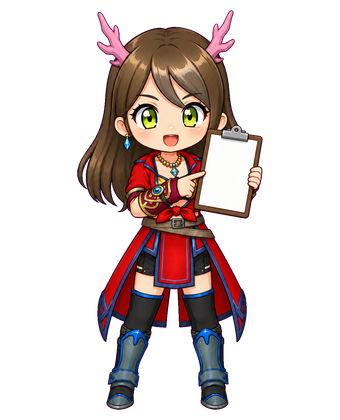
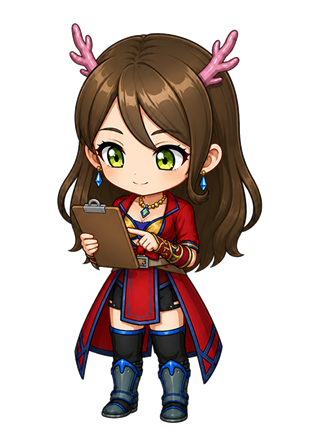
カウンター操作・患者初期設定・赤エストを更新

diff --git a/prototype_unified_triage.app.js b/prototype_unified_triage.app.js
@@ -705,6 +705,7 @@ const GAS_TOTAL_SAFE_BYTES = 450000;
 const GAS_NEAR_LIMIT_BYTES = 405000;
 const MANUAL_TIMER_TITLE_STORAGE_KEY = 'patient-triage-manual-timer-title';
 const MANUAL_TALLY_TITLE_STORAGE_KEY = 'patient-triage-manual-tally-title';
+const TIMER_DOCK_POSITION_STORAGE_KEY = 'patient-triage-timer-dock-position';
 const SUSPENDED_RUNNING_STORAGE_KEY = 'patient-triage-suspended-running';
 const COACH_CAST_STORAGE_KEY = 'patient-triage-coach-cast-enabled';
 const COACH_CAST_OPTIONS = [
@@ -718,7 +719,7 @@ const COACH_CAST_OPTIONS = [
 ];
 const COACH_MENTOR_ART_OPTIONS = [
   { id: 'classic', label: '既存エスト', preview: 'blue_white_girl_01_neutral.png' },
-  { id: 'variant', label: '色違いエスト', preview: 'est_variant_01_neutral.png' }
+  { id: 'variant', label: '色違いエスト', preview: 'est_variant_01_neutral.png?v=20260827-head-v3' }
 ];
 const DEFAULT_COACH_CAST = Object.freeze({
   ...COACH_CAST_OPTIONS.reduce((acc, item) => {
@@ -1103,6 +1104,7 @@ const lifetimeLineFor = total => {
   return String(tpl).replace(/\{total\}/g, String(total));
 };
 const PATIENT_ALERTS = [{ id: 'medHold', icon: '💊', label: '中断薬あり' }, { id: 'fasting', icon: '🍙', label: '欠食あり' }, { id: 'rehabMissing', icon: '🏃♀', label: 'リハビリ未介入' }];
+const DEFAULT_PATIENT_ALERTS = { medHold: true, fasting: true, rehabMissing: true };
 const getPatientAlerts = patient => PATIENT_ALERTS.filter(alert => patient?.alerts?.[alert.id]);
 const getPri = p => p?.priority || 'normal';
 const priMeta = id => PRIORITIES.find(p => p.id === id) || PRIORITIES.find(p => p.id === 'normal') || PRIORITIES[1];
@@ -8812,12 +8814,123 @@ function TimerQuickLauncher({
   suspended,
   onResumeSuspended
 }) {
+  const [dockPosition, setDockPosition] = React.useState(() => {
+    const saved = loadLocal(TIMER_DOCK_POSITION_STORAGE_KEY);
+    if (!Number.isFinite(saved?.y)) return null;
+    if (saved?.side === 'left' || saved?.side === 'right') return { side: saved.side, y: saved.y };
+    if (Number.isFinite(saved?.x)) {
+      return { side: saved.x < window.innerWidth / 2 ? 'left' : 'right', y: saved.y };
+    }
+    return null;
+  });
+  const dockRef = React.useRef(null);
+  const dragRef = React.useRef(null);
+  const clampDockPosition = (x, y, width, height) => ({
+    x: Math.max(8, Math.min(x, window.innerWidth - width - 8)),
+    y: Math.max(8, Math.min(y, window.innerHeight - height - 8))
+  });
+  const snapDockPosition = (position, width, height) => {
+    const clamped = clampDockPosition(position.x, position.y, width, height);
+    return {
+      side: clamped.x + width / 2 < window.innerWidth / 2 ? 'left' : 'right',
+      y: clamped.y
+    };
+  };
+  const moveDock = next => {
+    setDockPosition(next);
+    saveLocal(TIMER_DOCK_POSITION_STORAGE_KEY, next);
+  };
+  const resetDockPosition = () => {
+    setDockPosition(null);
+    saveLocal(TIMER_DOCK_POSITION_STORAGE_KEY, null);
+  };
+  const onDragStart = e => {
+    const rect = dockRef.current?.getBoundingClientRect();
+    if (!rect) return;
+    dragRef.current = {
+      pointerId: e.pointerId,
+      startX: e.clientX,
+      startY: e.clientY,
+      left: rect.left,
+      top: rect.top,
+      width: rect.width,
+      height: rect.height,
+      latest: { x: rect.left, y: rect.top }
+    };
+    e.currentTarget.setPointerCapture?.(e.pointerId);
+    e.preventDefault();
+    e.stopPropagation();
+  };
+  const onDragMove = e => {
+    const drag = dragRef.current;
+    if (!drag || drag.pointerId !== e.pointerId) return;
+    const next = clampDockPosition(
+      drag.left + e.clientX - drag.startX,
+      drag.top + e.clientY - drag.startY,
+      drag.width,
+      drag.height
+    );
+    drag.latest = next;
+    setDockPosition(next);
+    e.preventDefault();
+  };
+  const onDragEnd = e => {
+    const drag = dragRef.current;
+    if (!drag || drag.pointerId !== e.pointerId) return;
+    dragRef.current = null;
+    moveDock(snapDockPosition(drag.latest, drag.width, drag.height));
+    e.currentTarget.releasePointerCapture?.(e.pointerId);
+    e.preventDefault();
+  };
+  const onDockKeyDown = e => {
+    if (e.key === 'Home') {
+      resetDockPosition();
+      e.preventDefault();
+      return;
+    }
+    const rect = dockRef.current?.getBoundingClientRect();
+    if (!rect) return;
+    if (e.key === 'ArrowLeft' || e.key === 'ArrowRight') {
+      moveDock({ side: e.key === 'ArrowLeft' ? 'left' : 'right', y: rect.top });
+      e.preventDefault();
+      return;
+    }
+    if (e.key !== 'ArrowUp' && e.key !== 'ArrowDown') return;
+    const y = clampDockPosition(rect.left, rect.top + (e.key === 'ArrowUp' ? -12 : 12), rect.width, rect.height).y;
+    moveDock({
+      side: dockPosition?.side || (rect.left < window.innerWidth / 2 ? 'left' : 'right'),
+      y
+    });
+    e.preventDefault();
+  };
+  React.useEffect(() => {
+    const keepInViewport = () => {
+      const rect = dockRef.current?.getBoundingClientRect();
+      if (!rect) return;
+      setDockPosition(previous => {
+        if (!previous) return previous;
+        const next = {
+          side: previous.side === 'left' ? 'left' : 'right',
+          y: clampDockPosition(rect.left, previous.y, rect.width, rect.height).y
+        };
+        if (next.side === previous.side && next.y === previous.y) return previous;
+        saveLocal(TIMER_DOCK_POSITION_STORAGE_KEY, next);
+        return next;
+      });
+    };
+    window.addEventListener('resize', keepInViewport);
+    keepInViewport();
+    return () => window.removeEventListener('resize', keepInViewport);
+  }, [suspended]);
   if (running) return null;
   return React.createElement("div", {
+    ref: dockRef,
     style: {
       position: 'fixed',
-      right: 'max(12px, env(safe-area-inset-right))',
-      bottom: 'max(112px, calc(env(safe-area-inset-bottom) + 112px))',
+      left: Number.isFinite(dockPosition?.x) ? dockPosition.x : dockPosition?.side === 'left' ? 'max(8px, env(safe-area-inset-left))' : 'auto',
+      top: Number.isFinite(dockPosition?.y) ? dockPosition.y : 'auto',
+      right: Number.isFinite(dockPosition?.x) || dockPosition?.side === 'left' ? 'auto' : dockPosition?.side === 'right' ? 'max(8px, env(safe-area-inset-right))' : 'max(12px, env(safe-area-inset-right))',
+      bottom: dockPosition ? 'auto' : 'max(112px, calc(env(safe-area-inset-bottom) + 112px))',
       zIndex: 9040,
       display: 'flex',
       flexDirection: 'column',
@@ -8830,7 +8943,32 @@ function TimerQuickLauncher({
       backdropFilter: 'blur(8px)'
     },
     "aria-label": "タイマーと件数クリッカー"
-  }, suspended && React.createElement("button", {
+  }, React.createElement("div", {
+    role: "button",
+    tabIndex: 0,
+    title: "ドラッグすると左右の画面端に吸着・ダブルクリックで右下に戻す",
+    "aria-label": "タイマーと件数クリッカーを移動",
+    onPointerDown: onDragStart,
+    onPointerMove: onDragMove,
+    onPointerUp: onDragEnd,
+    onPointerCancel: onDragEnd,
+    onDoubleClick: resetDockPosition,
+    onKeyDown: onDockKeyDown,
+    style: {
+      width: 38,
+      height: 20,
+      display: 'flex',
+      alignItems: 'center',
+      justifyContent: 'center',
+      color: 'var(--text-3)',
+      fontSize: 14,
+      lineHeight: 1,
+      cursor: 'grab',
+      touchAction: 'none',
+      userSelect: 'none',
+      opacity: .68
+    }
+  }, "⠿"), suspended && React.createElement("button", {
     type: "button",
     className: "btn-ghost dock-icon",
     onClick: onResumeSuspended,
@@ -11838,7 +11976,7 @@ function PatientTriage() {
       admissionDate: isDailyMode ? '' : newPatientAdmissionDate,
       preDischargeDone: false,
       memo: '',
-      alerts: {},
+      alerts: isDailyMode ? {} : { ...DEFAULT_PATIENT_ALERTS },
       medHoldNote: '',
       problems: [],
       tasks: [],
@@ -12958,6 +13096,9 @@ function PatientTriage() {
       admissionDate: dateStrFromDate(new Date()),
       preDischargeDone: false,
       memo: pending.memo ? `(元: ${kindMeta(pending.kind).label}${pending.scheduledDate ? ' ' + pending.scheduledDate : ''}) ${pending.memo}` : '',
+      alerts: { ...DEFAULT_PATIENT_ALERTS },
+      medHoldNote: '',
+      problems: [],
       tasks: [],
       createdAt: Date.now()
     };

diff --git a/index.html b/index.html
@@ -1366,7 +1366,7 @@ body.rpg-mode .chibi-coach-bubble {
     },
     variant: {
       alt: '茶色い髪と赤い服の色違いエスト',
-      img: { neutral: 'est_variant_01_neutral.png', thumb: 'est_variant_02_thumbsup.png', cheer: 'est_variant_03_cheer.png', thinking: 'est_variant_04_thinking.png', hurry: 'est_variant_05_hurrying.png', pointing: 'est_variant_05_hurrying.png', clipboard: 'est_variant_06_clipboard.png', done: 'est_variant_07_completed.png', sleep: 'est_variant_08_sleeping.png' }
+      img: { neutral: 'est_variant_01_neutral.png?v=20260827-head-v3', thumb: 'est_variant_02_thumbsup.png?v=20260827-head-v3', cheer: 'est_variant_03_cheer.png?v=20260827-head-v3', thinking: 'est_variant_04_thinking.png?v=20260827-head-v3', hurry: 'est_variant_05_hurrying.png?v=20260827-head-v3', pointing: 'est_variant_05_hurrying.png?v=20260827-head-v3', clipboard: 'est_variant_06_clipboard.png?v=20260827-head-v3', done: 'est_variant_07_completed.png?v=20260827-head-v3', sleep: 'est_variant_08_sleeping.png?v=20260827-head-v3' }
     }
   };
   const cast = {
